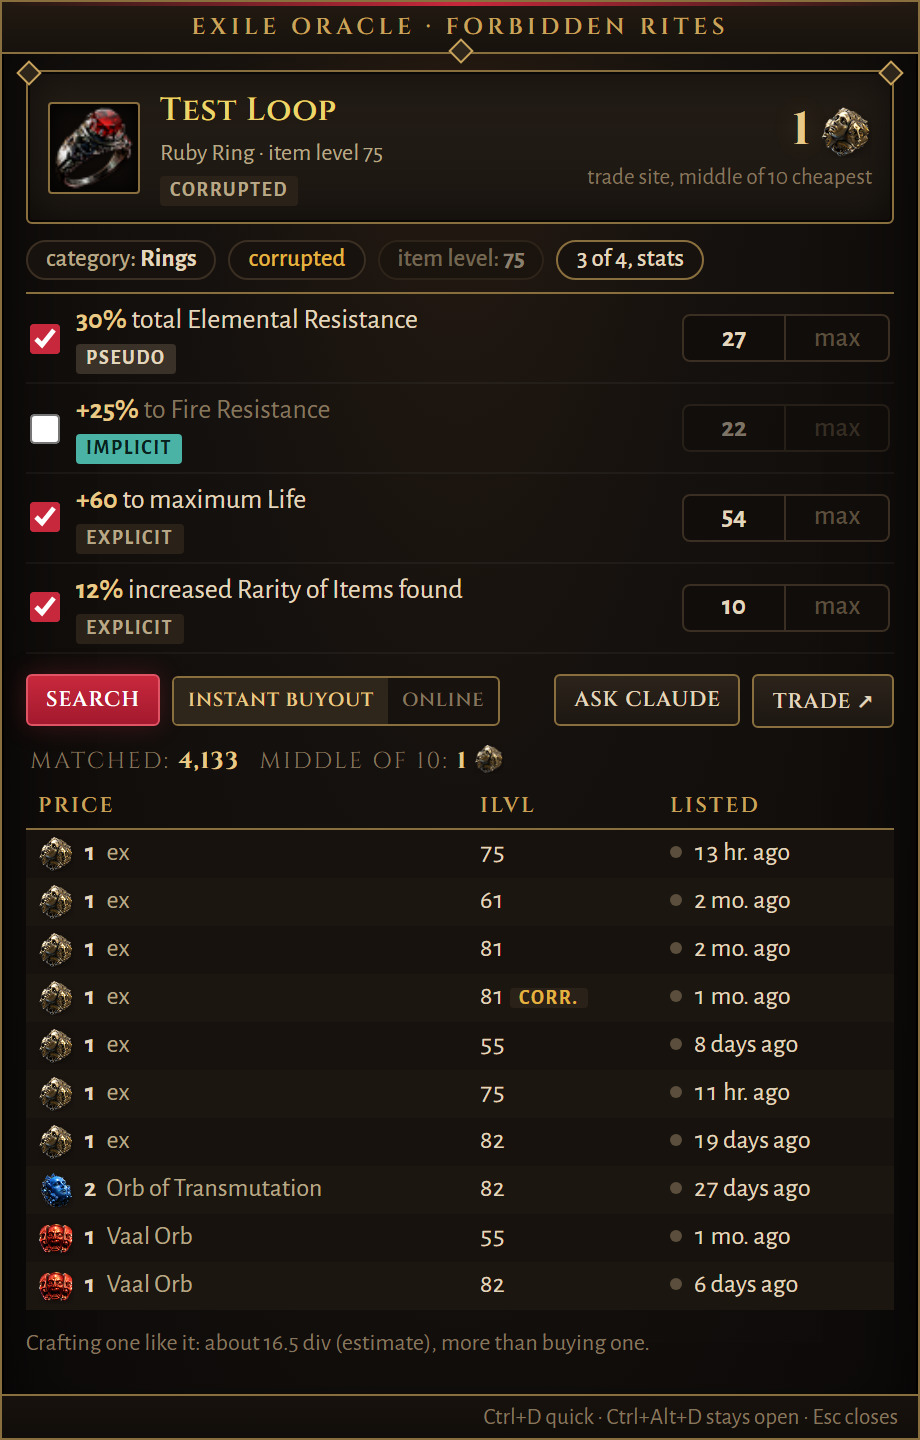
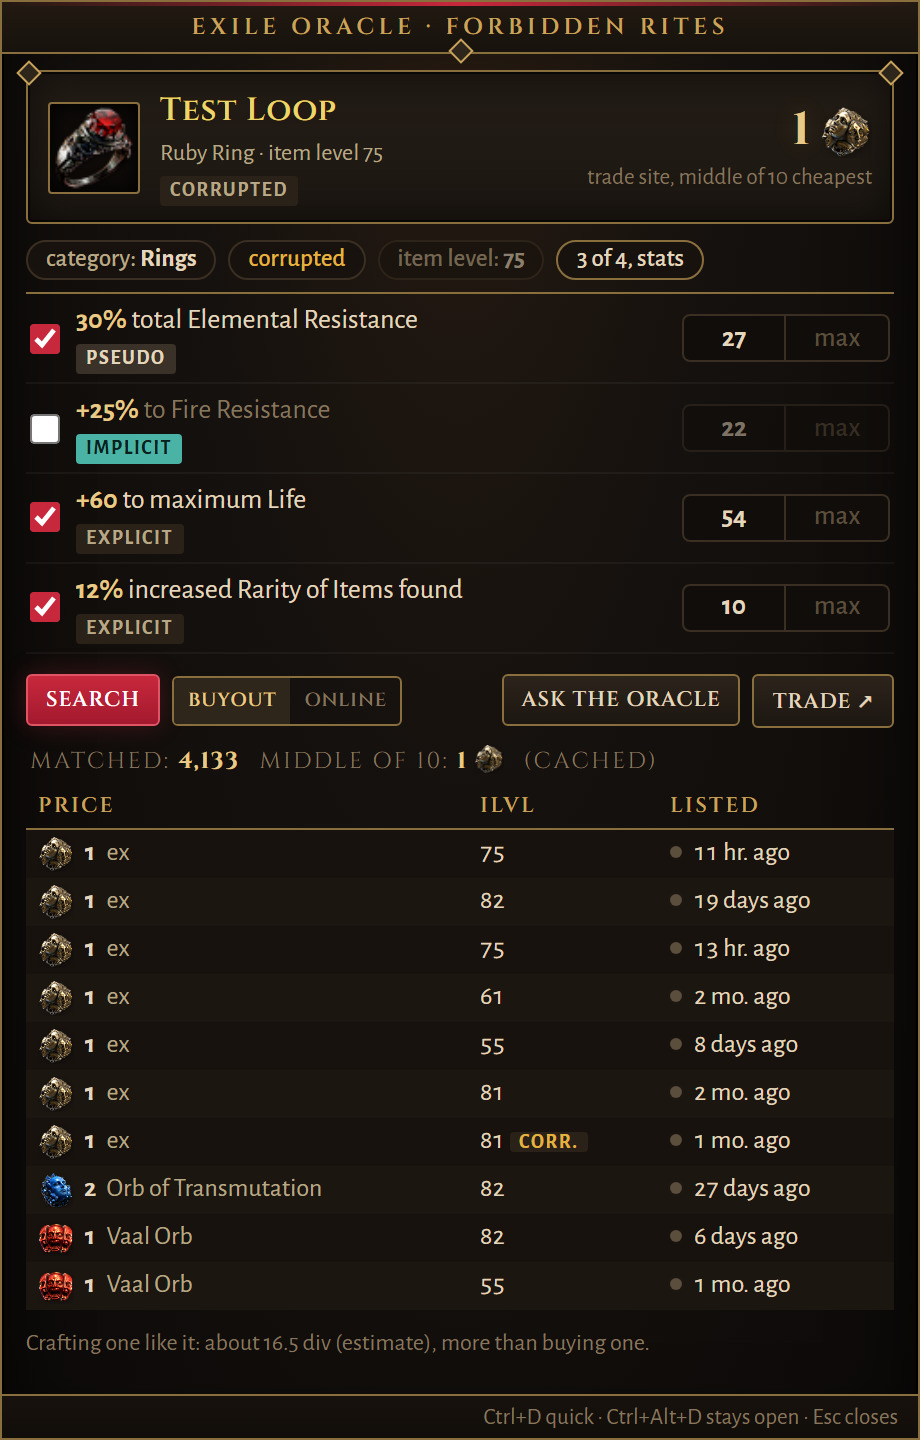
0.4.0: Ask Claude renamed Ask the Oracle (From the Oracle page); Edge windows run without account sync or extensions (a synced VPN extension had registered as a background app); overlay buttons fit one row

diff --git a/dashboard/overlay.html b/dashboard/overlay.html
@@ -243,12 +243,12 @@ async function renderSettings() {
     <div class="pills"><span class="pill sc">quick check: <b>${esc(hk.quick)}</b></span><span class="pill sc">detailed: <b>${esc(hk.detailed)}</b></span><span class="pill sc">settings: <b>${esc(hk.settings)}</b></span></div>
     <div class="stats">
       ${row('Live trade-site prices', tog('live_trade', o.live_trade), "Uses GGG's trade site like Exiled Exchange 2: one search per check.")}
-      ${row('Listings to search', seg('listing', o.listing, [['securable', 'instant buyout'], ['online', 'online']]))}
+      ${row('Listings to search', seg('listing', o.listing, [['securable', 'buyout'], ['online', 'online']]))}
       ${row('Match my rolls within', num('search_range_pct', o.search_range_pct, '%'), '10% = look for at least 90% of each roll.')}
       ${row('Quick check closes after the mouse moves', num('quick_close_px', o.quick_close_px, 'px'))}
       ${row('Popup position', seg('popup_position', o.popup_position, [['centre', 'centre'], ['mouse', 'by the mouse']]))}
       ${row('Also show a price when I press Ctrl+C myself', tog('overlay_on_copy', o.overlay_on_copy), 'Off: copying an item into chat stays quiet.')}
-      ${row('Ask Claude sends to', seg('ask_claude_target', o.ask_claude_target, [['app', 'claude app'], ['code', 'claude code chat']]), 'Claude Code chat: say "watch my overlay" there once; items then arrive in that chat.')}
+      ${row('Ask the Oracle sends to', seg('ask_claude_target', o.ask_claude_target, [['app', 'claude app'], ['code', 'claude code chat']]), 'Claude Code chat: say "watch my overlay" there once; items then arrive in that chat.')}
     </div>
     <div class="matched sc" style="margin-top:12px">chat commands <span style="text-transform:none;font-variant:normal;font:12px var(--eo-body);letter-spacing:0">(the key types the text in chat: Enter, text, Enter)</span></div>
     <div class="stats" id="cmds">${(o.chat_commands || []).map((c, i) => `<div class="st" data-i="${i}">
@@ -322,9 +322,9 @@ function render(st) {
     }
     h += `<div class="actions">
       <button class="btn primary" id="search">search</button>
-      <div class="seg"><button data-s="securable" class="${f.status !== 'online' ? 'on' : ''}">instant buyout</button><button data-s="online" class="${f.status === 'online' ? 'on' : ''}">online</button></div>
+      <div class="seg"><button data-s="securable" class="${f.status !== 'online' ? 'on' : ''}">buyout</button><button data-s="online" class="${f.status === 'online' ? 'on' : ''}">online</button></div>
       <span class="grow"></span>
-      <button class="btn" id="askclaude" title="Save this item for Claude and open the Claude app">ask claude</button>
+      <button class="btn" id="askclaude" title="Send this item to your AI (Claude) to ask about it">ask the oracle</button>
       <button class="btn" id="trade"${r.url ? '' : ' disabled'}>trade ↗</button>
     </div>`;
   }

diff --git a/dashboard/index.html b/dashboard/index.html
@@ -305,7 +305,7 @@ input[type=checkbox] { accent-color: var(--eo-blood-hi); }
   <a class="brand" href="#home" onclick="document.querySelector('nav [data-tab=home]').click();return false"><img src="/static/emblem.png" alt=""><div><b>EXILE<br>ORACLE</b><span>Path of Exile 2</span></div></a>
   <div class="ng">Oracle</div>
   <button data-tab="home" class="on">Home</button>
-  <button data-tab="claude">From Claude</button>
+  <button data-tab="claude">From the Oracle</button>
   <div class="ng">Market</div>
   <button data-tab="economy">Economy</button>
   <div class="ng">Farming</div>
@@ -340,7 +340,7 @@ input[type=checkbox] { accent-color: var(--eo-blood-hi); }
       <button data-go="status"><b>Settings</b>Profile, overlay, Claude, updates</button>
     </div></div>
   </section>
-  <section id="claude"><div id="show"><div class="card empty">Ask Claude something in chat (a build cost, upgrades, a compare, a price chart) and it shows up here.</div></div></section>
+  <section id="claude"><div id="show"><div class="card empty">Ask the Oracle something in chat (Claude: a build cost, upgrades, a compare, a price chart) and it shows up here.</div></div></section>
   <section id="economy">
     <div class="card"><h2>Market at a glance</h2><div class="sub" id="ovsub">Key currency and the league's chase items, from poe.ninja.</div>
       <div class="tiles" id="ovtiles"></div>

diff --git a/poe2kit/appwindow.py b/poe2kit/appwindow.py
@@ -31,7 +31,10 @@ def mode():
 
 
 def _flags(prof):
-    f = [f'--app={URL}', f'--window-size={SIZE}', '--no-first-run', '--no-default-browser-check']
+    # no account sync and no extensions: Edge otherwise signs a new profile into the Windows account and syncs its
+    # extensions, which can then run in the background
+    f = [f'--app={URL}', f'--window-size={SIZE}', '--no-first-run', '--no-default-browser-check', '--disable-sync',
+         '--disable-extensions']
     return f + ([f'--user-data-dir={prof}'] if prof else [])
 
 

diff --git a/README.md b/README.md
@@ -20,7 +20,7 @@ The Divine rate and the main currencies with their 7-day change, your latest ale
 ![Home](docs/screenshots/home.jpg)
 
 ### Price-check overlay (Windows)
-Ctrl+D on an item in game: poe.ninja and live trade-site prices (optional), a craft estimate, and Ask Claude.
+Ctrl+D on an item in game: poe.ninja and live trade-site prices (optional), a craft estimate, and Ask the Oracle (sends the item to Claude).
 Ctrl+Alt+D keeps it open so you can tick rows and search again. F5 / F9 and your own chat commands work too.
 
 <img src="docs/screenshots/overlay.jpg" alt="Price-check overlay" width="460">
@@ -50,10 +50,10 @@ You vs the top 1% of your ascendancy: level, DPS, toughness, gear value.
 
 ![Top 1% check](docs/screenshots/top1.jpg)
 
-### From Claude
+### From the Oracle
 Ask in chat and Claude puts the answer on your dashboard (here: your build vs a top-1% Blood Mage).
 
-![From Claude](docs/screenshots/from-claude.jpg)
+![From the Oracle](docs/screenshots/from-claude.jpg)
 
 ### What to farm
 League mechanics ranked by what actually sells, with drop estimates from tracked runs.

diff --git a/TROUBLESHOOTING.md b/TROUBLESHOOTING.md
@@ -80,7 +80,7 @@ Keys work only while Path of Exile 2 is the window in front:
   - uniques whose price depends on their roll are flagged, and poe.ninja's price for them is the cheapest roll.
 - **A unique has no poe.ninja price:** poe.ninja only lists items that trade often enough.
 
-## Ask Claude (the popup's button)
+## Ask the Oracle (the popup's button; called "Ask Claude" before 0.4.0)
 
 - **Target "Claude app":** the button saves the item and opens Claude desktop. The player pastes the copied
   question, and you read the item with `poe2_from_overlay`. If that tool is missing, Claude desktop needs a restart

diff --git a/CLAUDE-GUIDE.md b/CLAUDE-GUIDE.md
@@ -66,7 +66,7 @@ for 15 minutes).
 
 ## 4. Tips
 - Ask Claude to **"show it on the dashboard"**: it can put charts, tables, build costs, upgrades and compares on the
-  dashboard's *From Claude* tab while it explains in chat.
+  dashboard's *From the Oracle* tab while it explains in chat.
 - Prices follow poe.ninja and GGG's Currency Exchange; early in a league they move fast. Ask "refresh prices" first
   if it matters.
 - Uniques whose value depends on their roll (e.g. Prism of Belief) are priced at the cheapest roll: Claude will say
